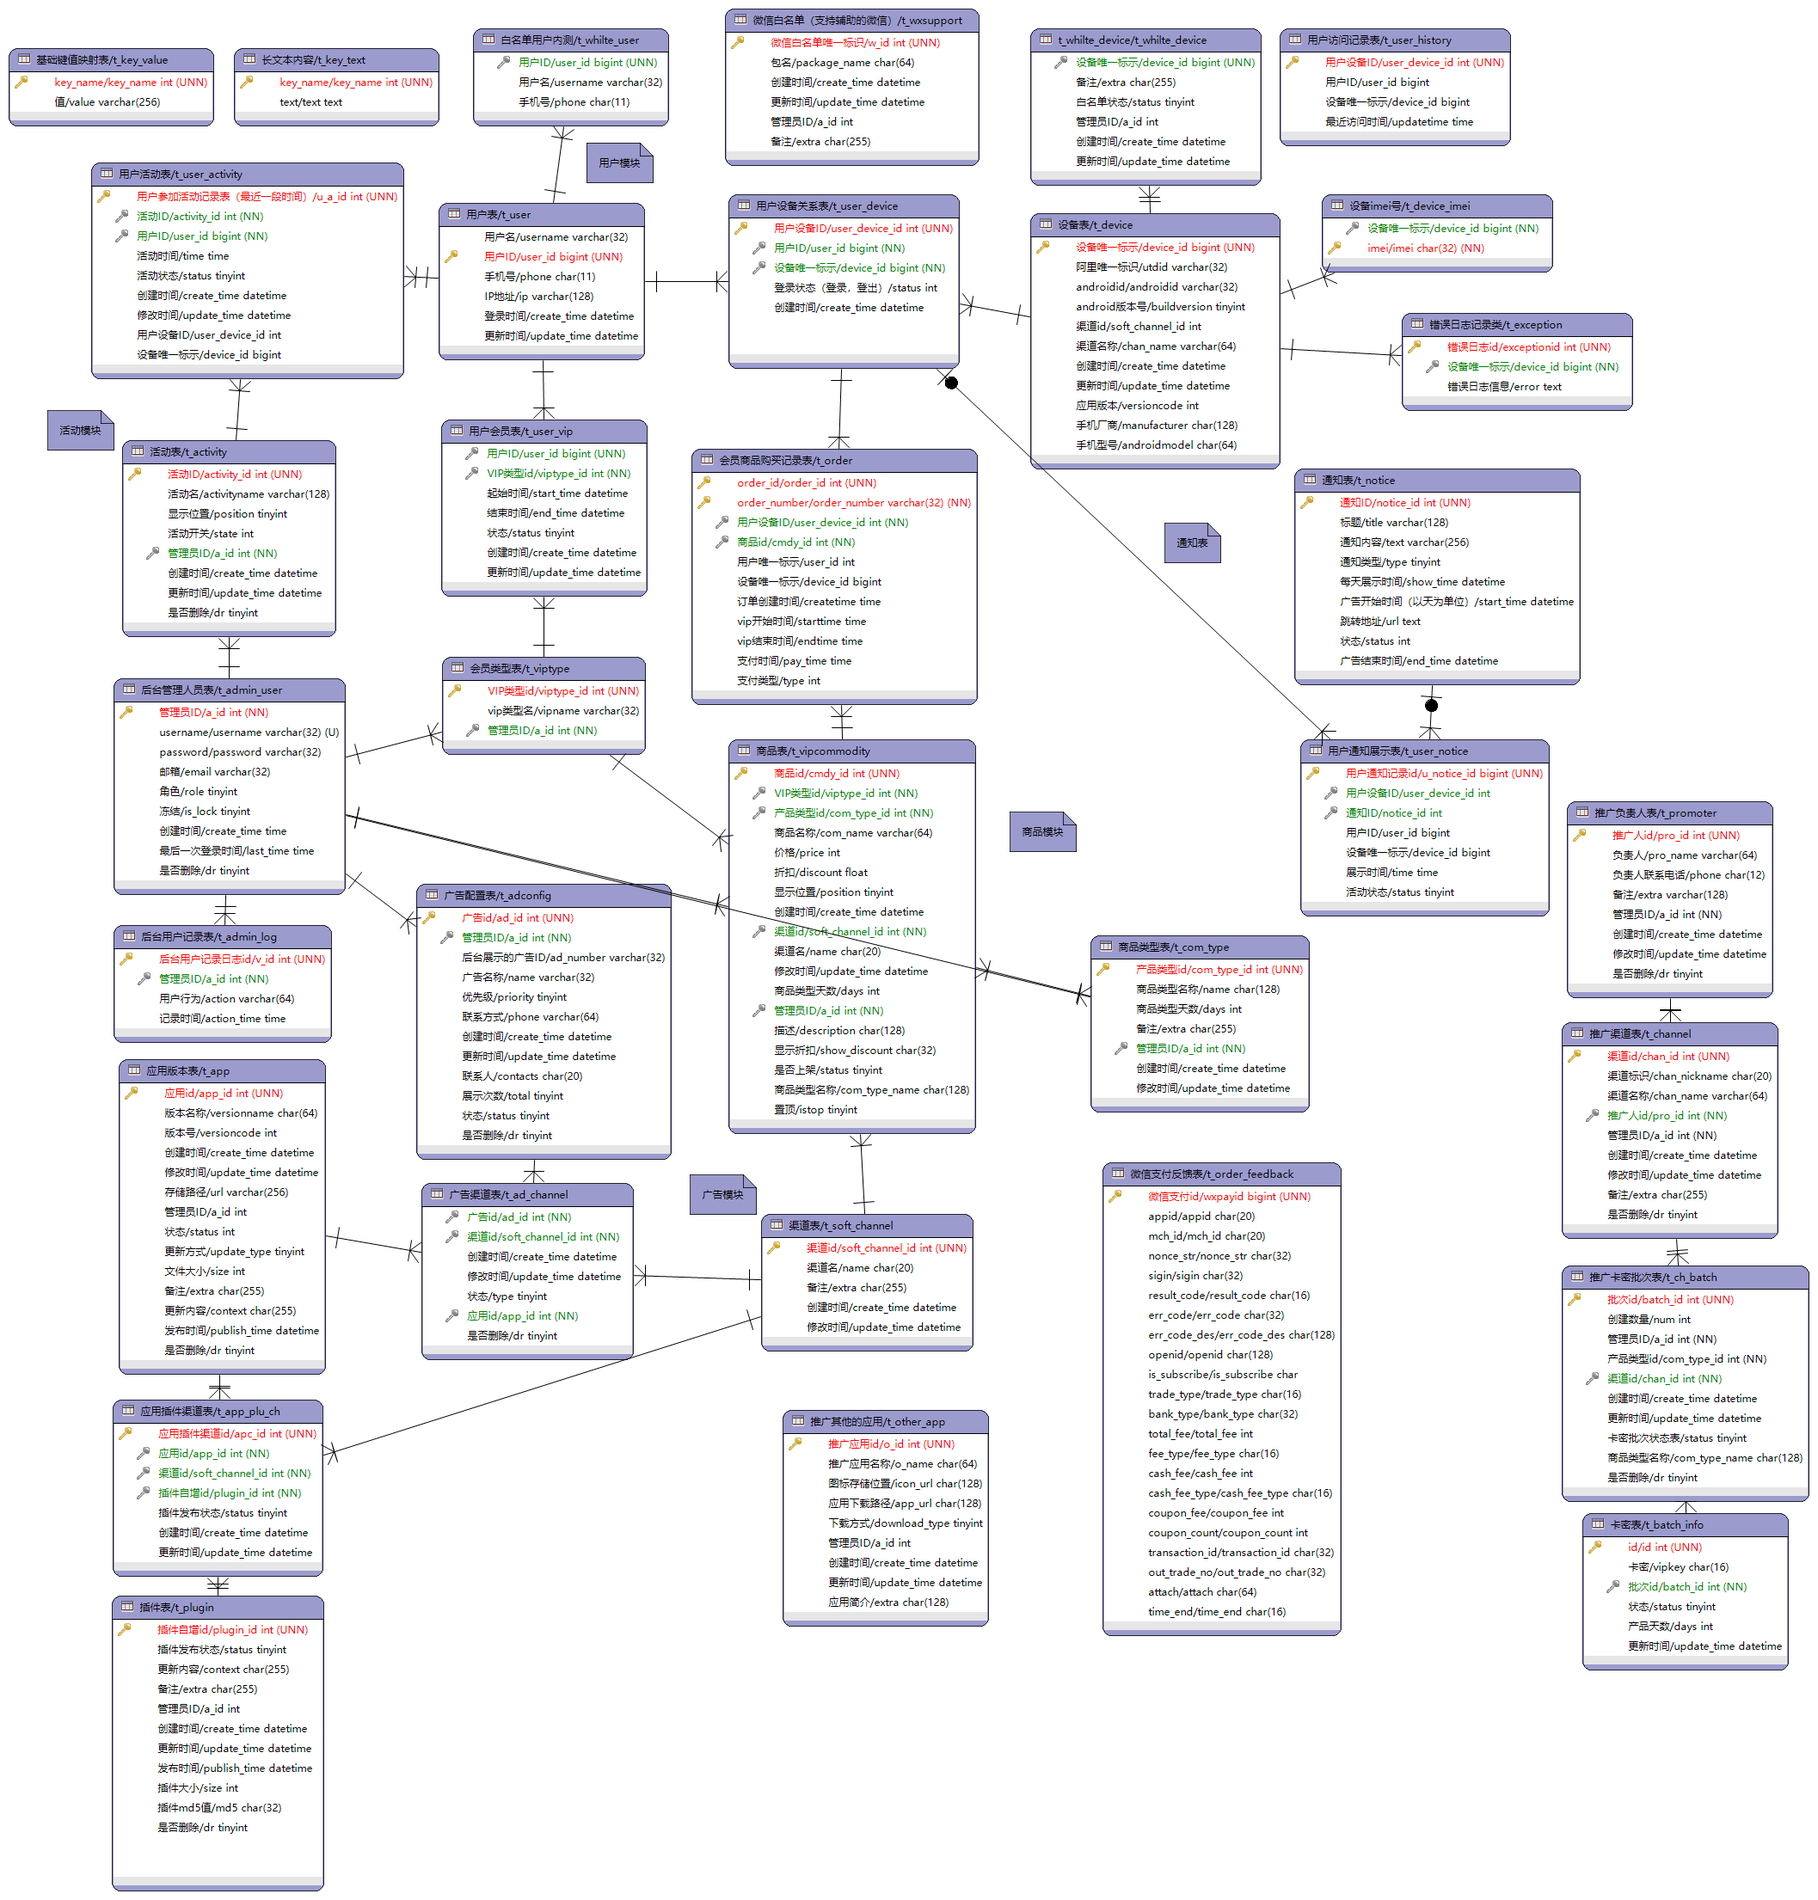
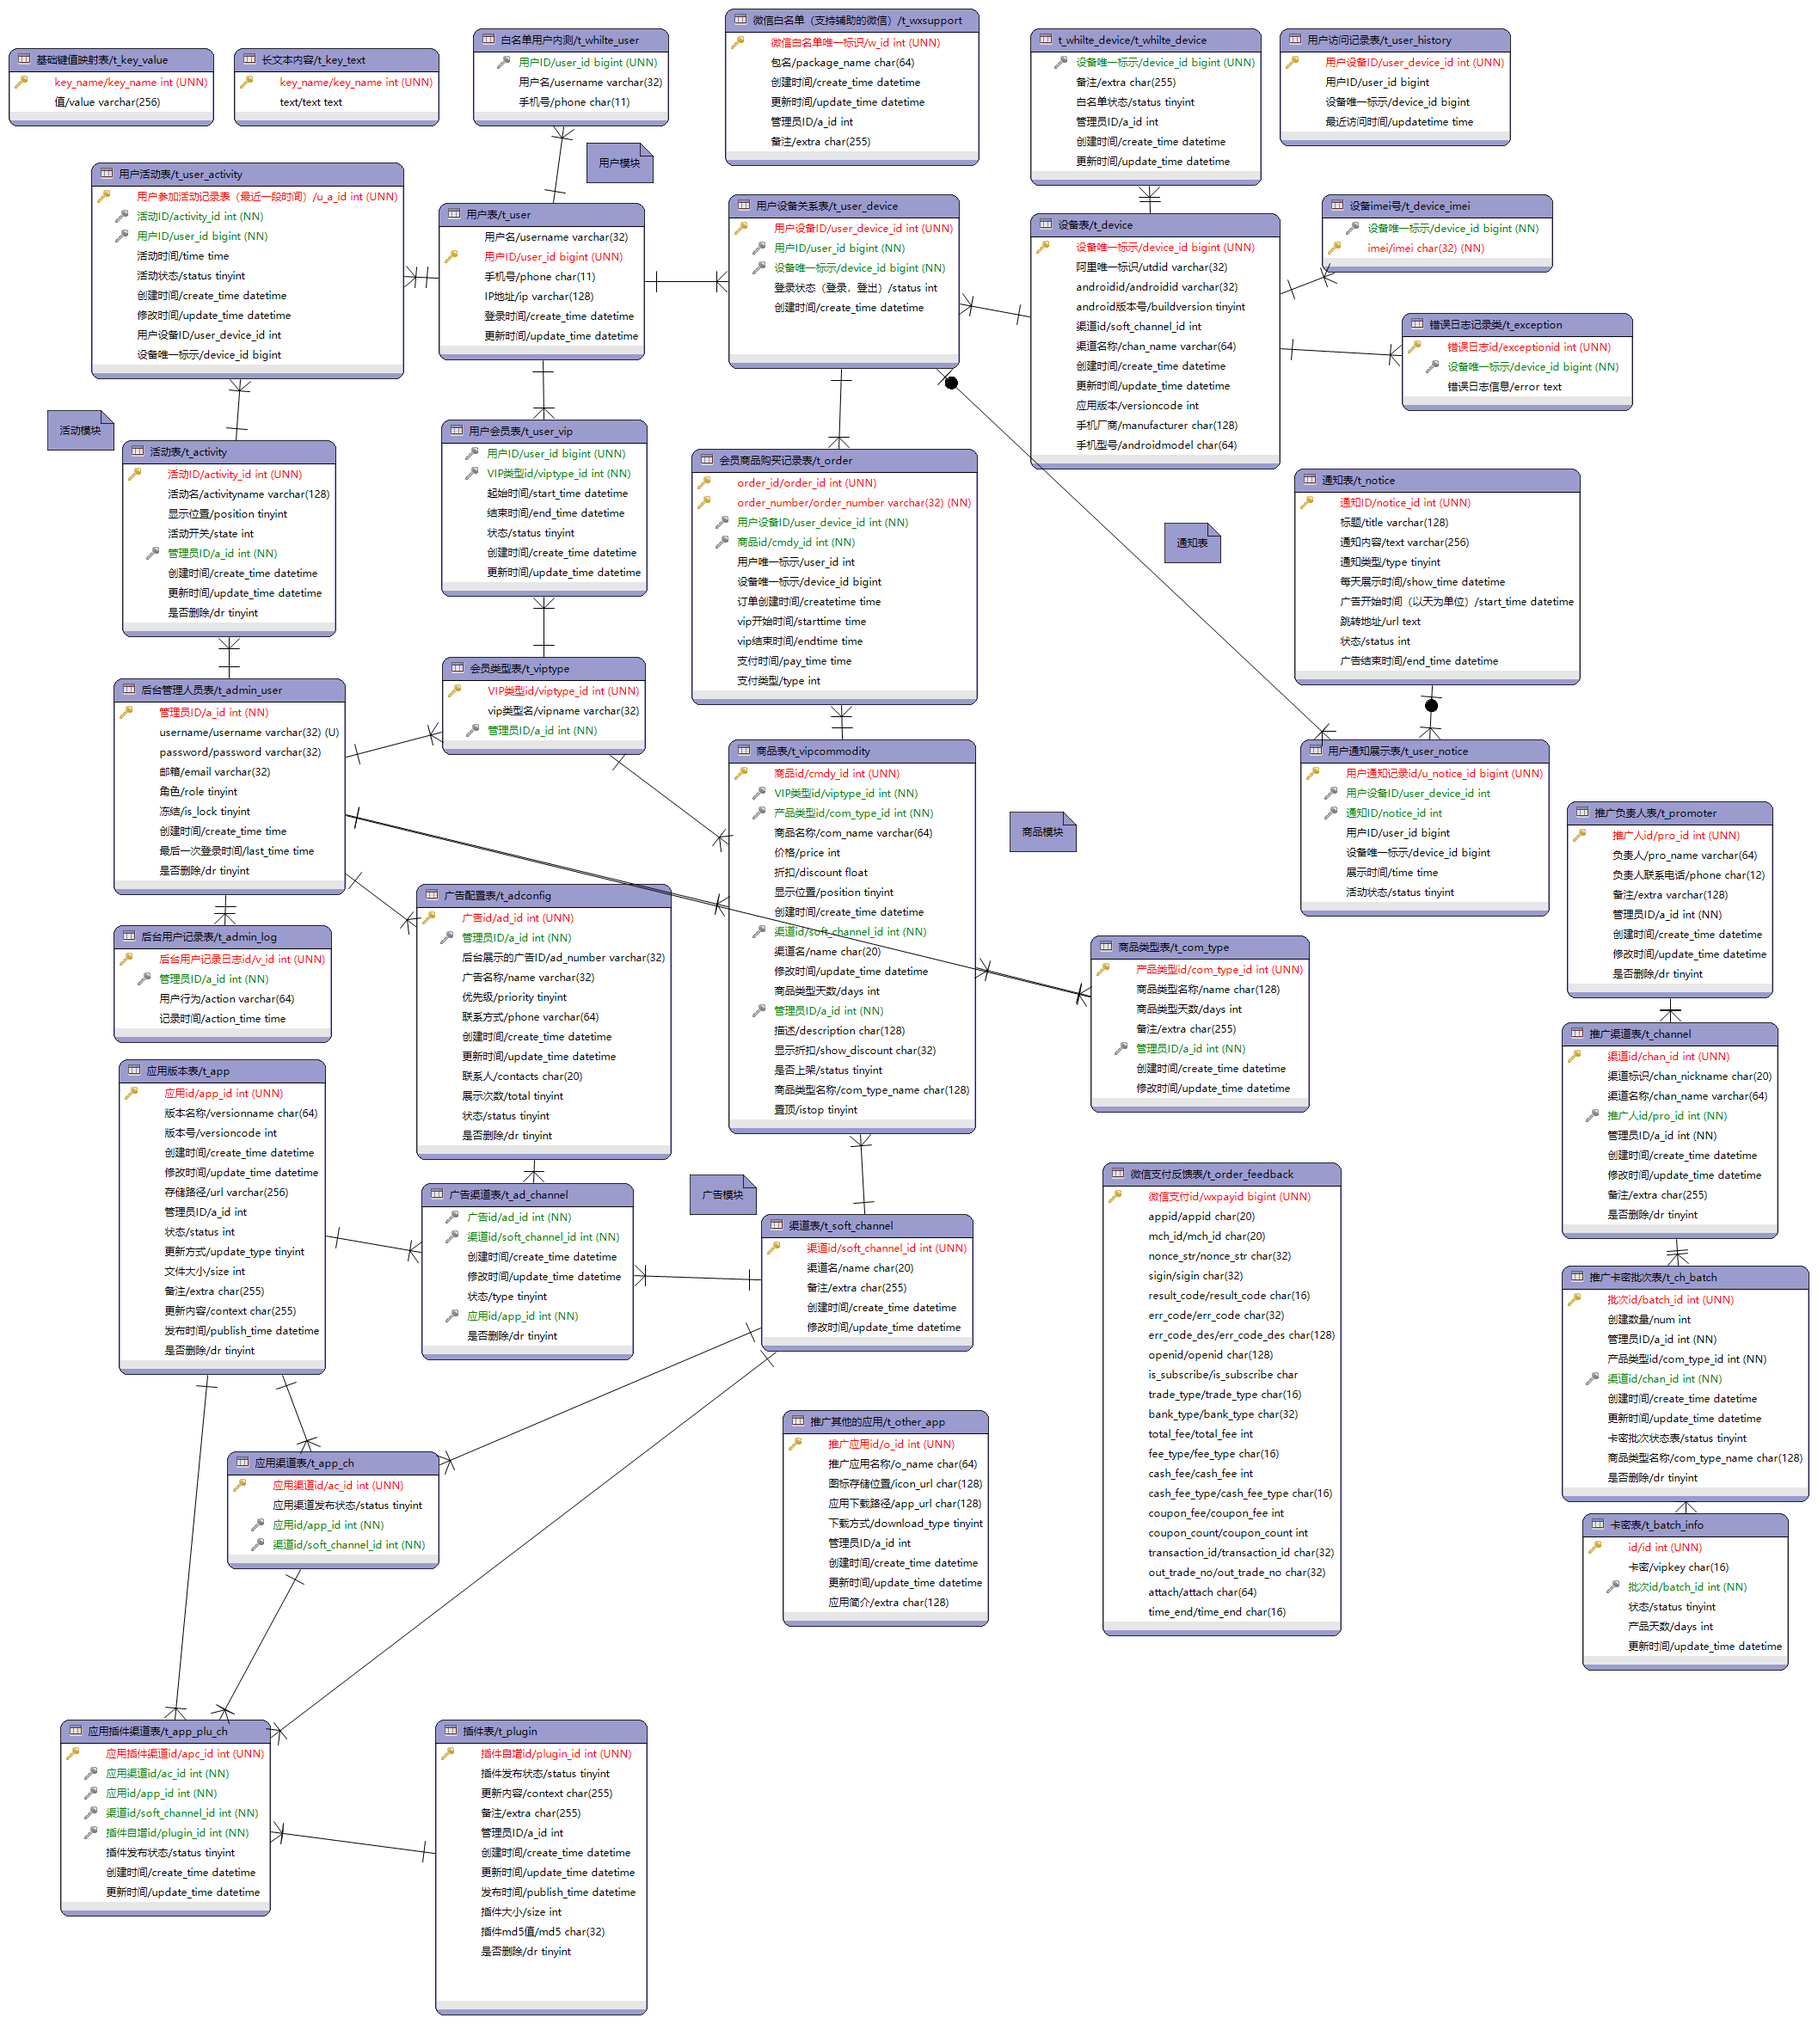
update t_app_ch table

Changed region(s): [[0.0, 0.0, 0.9991, 0.9991], [0.2185, 0.843, 0.3746, 0.9991]]

diff --git a/smartweb/src/main/java/com/rpa/web/pojo/AppChPO.java b/smartweb/src/main/java/com/rpa/web/pojo/AppChPO.java
@@ -1,0 +1,98 @@
+package com.rpa.web.pojo;
+
+import java.io.Serializable;
+
+/**
+ * t_app_ch
+ * @author 
+ */
+public class AppChPO implements Serializable {
+    private Integer acId;
+
+    /**
+     * 1 未发布  2 发布
+     */
+    private Byte status;
+
+    private Integer appId;
+
+    private Integer softChannelId;
+
+    private static final long serialVersionUID = 1L;
+
+    public Integer getAcId() {
+        return acId;
+    }
+
+    public void setAcId(Integer acId) {
+        this.acId = acId;
+    }
+
+    public Byte getStatus() {
+        return status;
+    }
+
+    public void setStatus(Byte status) {
+        this.status = status;
+    }
+
+    public Integer getAppId() {
+        return appId;
+    }
+
+    public void setAppId(Integer appId) {
+        this.appId = appId;
+    }
+
+    public Integer getSoftChannelId() {
+        return softChannelId;
+    }
+
+    public void setSoftChannelId(Integer softChannelId) {
+        this.softChannelId = softChannelId;
+    }
+
+    @Override
+    public boolean equals(Object that) {
+        if (this == that) {
+            return true;
+        }
+        if (that == null) {
+            return false;
+        }
+        if (getClass() != that.getClass()) {
+            return false;
+        }
+        AppChPO other = (AppChPO) that;
+        return (this.getAcId() == null ? other.getAcId() == null : this.getAcId().equals(other.getAcId()))
+            && (this.getStatus() == null ? other.getStatus() == null : this.getStatus().equals(other.getStatus()))
+            && (this.getAppId() == null ? other.getAppId() == null : this.getAppId().equals(other.getAppId()))
+            && (this.getSoftChannelId() == null ? other.getSoftChannelId() == null : this.getSoftChannelId().equals(other.getSoftChannelId()));
+    }
+
+    @Override
+    public int hashCode() {
+        final int prime = 31;
+        int result = 1;
+        result = prime * result + ((getAcId() == null) ? 0 : getAcId().hashCode());
+        result = prime * result + ((getStatus() == null) ? 0 : getStatus().hashCode());
+        result = prime * result + ((getAppId() == null) ? 0 : getAppId().hashCode());
+        result = prime * result + ((getSoftChannelId() == null) ? 0 : getSoftChannelId().hashCode());
+        return result;
+    }
+
+    @Override
+    public String toString() {
+        StringBuilder sb = new StringBuilder();
+        sb.append(getClass().getSimpleName());
+        sb.append(" [");
+        sb.append("Hash = ").append(hashCode());
+        sb.append(", acId=").append(acId);
+        sb.append(", status=").append(status);
+        sb.append(", appId=").append(appId);
+        sb.append(", softChannelId=").append(softChannelId);
+        sb.append(", serialVersionUID=").append(serialVersionUID);
+        sb.append("]");
+        return sb.toString();
+    }
+}

diff --git a/smartweb/src/main/java/com/rpa/web/pojo/AppPluChPO.java b/smartweb/src/main/java/com/rpa/web/pojo/AppPluChPO.java
@@ -10,6 +10,8 @@ import java.util.Date;
 public class AppPluChPO implements Serializable {
     private Integer apcId;
 
+    private Integer acId;
+
     private Integer appId;
 
     private Integer softChannelId;
@@ -33,6 +35,14 @@ public class AppPluChPO implements Serializable {
 
     public void setApcId(Integer apcId) {
         this.apcId = apcId;
+    }
+
+    public Integer getAcId() {
+        return acId;
+    }
+
+    public void setAcId(Integer acId) {
+        this.acId = acId;
     }
 
     public Integer getAppId() {
@@ -96,6 +106,7 @@ public class AppPluChPO implements Serializable {
         }
         AppPluChPO other = (AppPluChPO) that;
         return (this.getApcId() == null ? other.getApcId() == null : this.getApcId().equals(other.getApcId()))
+            && (this.getAcId() == null ? other.getAcId() == null : this.getAcId().equals(other.getAcId()))
             && (this.getAppId() == null ? other.getAppId() == null : this.getAppId().equals(other.getAppId()))
             && (this.getSoftChannelId() == null ? other.getSoftChannelId() == null : this.getSoftChannelId().equals(other.getSoftChannelId()))
             && (this.getPluginId() == null ? other.getPluginId() == null : this.getPluginId().equals(other.getPluginId()))
@@ -109,6 +120,7 @@ public class AppPluChPO implements Serializable {
         final int prime = 31;
         int result = 1;
         result = prime * result + ((getApcId() == null) ? 0 : getApcId().hashCode());
+        result = prime * result + ((getAcId() == null) ? 0 : getAcId().hashCode());
         result = prime * result + ((getAppId() == null) ? 0 : getAppId().hashCode());
         result = prime * result + ((getSoftChannelId() == null) ? 0 : getSoftChannelId().hashCode());
         result = prime * result + ((getPluginId() == null) ? 0 : getPluginId().hashCode());
@@ -125,6 +137,7 @@ public class AppPluChPO implements Serializable {
         sb.append(" [");
         sb.append("Hash = ").append(hashCode());
         sb.append(", apcId=").append(apcId);
+        sb.append(", acId=").append(acId);
         sb.append(", appId=").append(appId);
         sb.append(", softChannelId=").append(softChannelId);
         sb.append(", pluginId=").append(pluginId);

diff --git a/smartweb/src/main/java/com/rpa/web/mapper/AppChMapper.java b/smartweb/src/main/java/com/rpa/web/mapper/AppChMapper.java
@@ -1,0 +1,11 @@
+package com.rpa.web.mapper;
+
+import com.rpa.web.pojo.AppChPO;
+import org.apache.ibatis.annotations.Mapper;
+
+/**
+ * AppChMapper继承基类
+ */
+@Mapper
+public interface AppChMapper extends BaseDAO<AppChPO, Integer> {
+}
